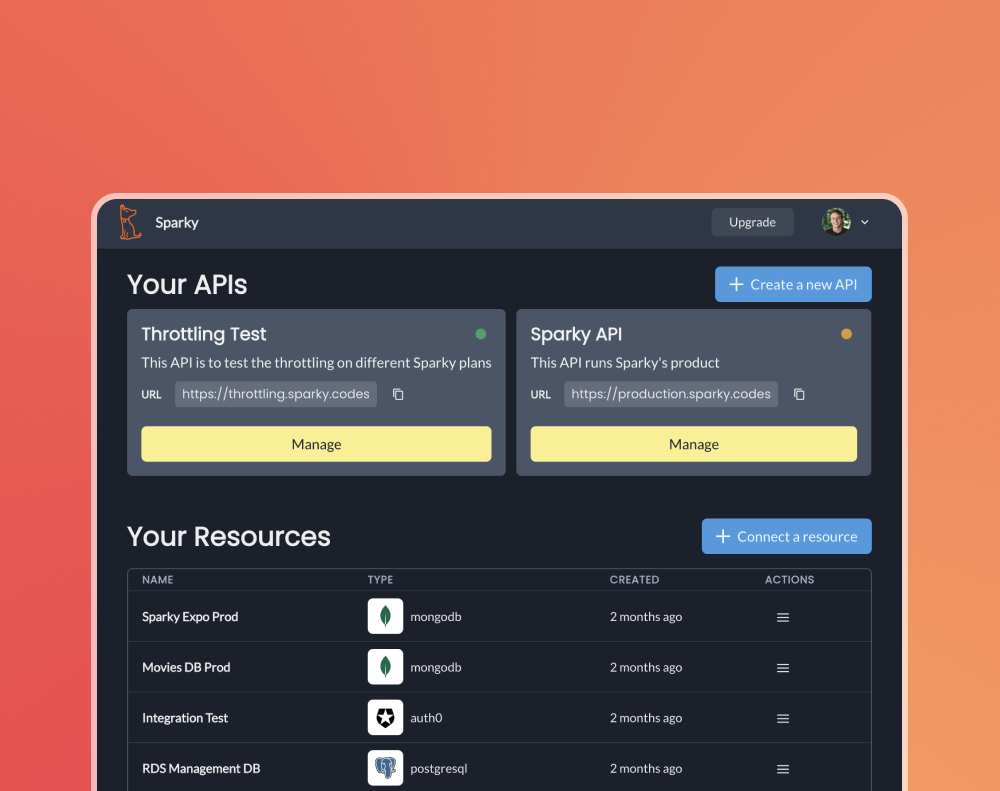
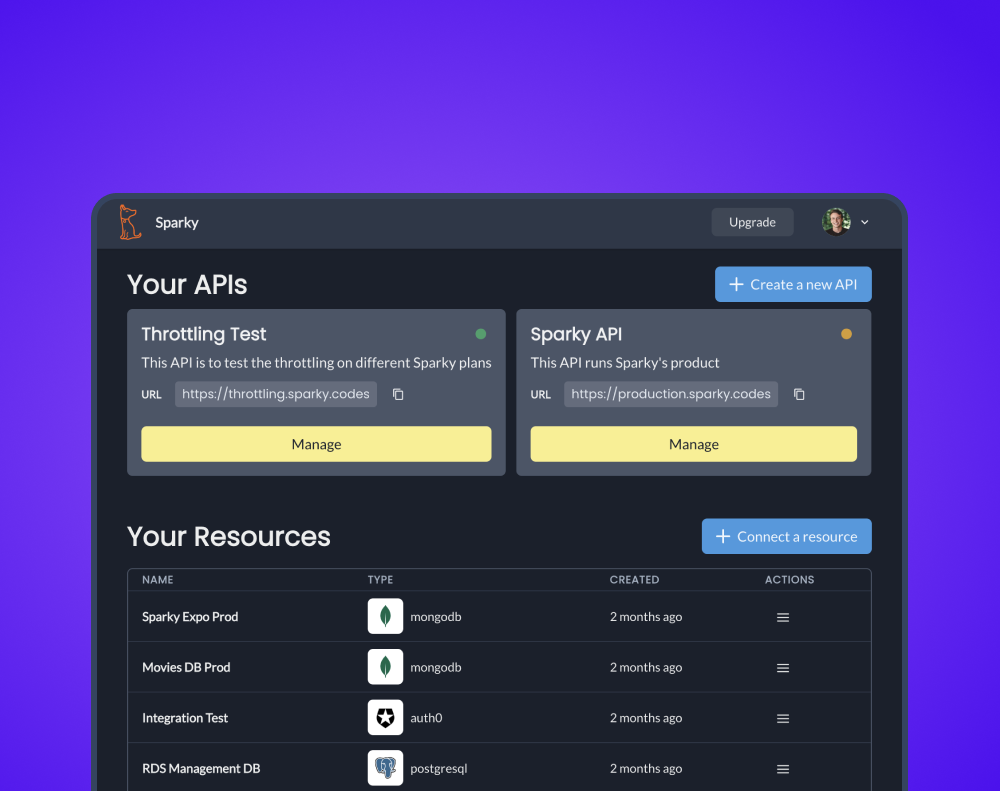
Finish up v1 project pages

diff --git a/src/pages/projects/[projectId].tsx b/src/pages/projects/[projectId].tsx
@@ -8,6 +8,8 @@ import {
   VStack,
   Image,
   Stack,
+  Wrap,
+  Tag,
 } from "@chakra-ui/react";
 import { useRouter } from "next/router";
 import { ProjectIds, projects } from "../../fixtures/projects";
@@ -42,7 +44,7 @@ export default function ProjectPage() {
 
   return (
     // Full page gradient background
-    <Box h="100vh" w="full" bgGradient={project.gradient}>
+    <Box minH="100vh" w="full" bgGradient={project.gradient}>
       <Container maxW="container.lg" h="full" py={20}>
         {/* Home button */}
         <Button
@@ -107,6 +109,46 @@ export default function ProjectPage() {
         >
           {project.description}
         </Text>
+
+        <Stack
+          mt={10}
+          direction={["column", "column", "row", "row"]}
+          spacing={4}
+          w="full"
+        >
+          <Box
+            w={["100%", "100%", "50%", "50%"]}
+            bg={"rgba(255, 255, 255, 0.1)"}
+            px={8}
+            py={6}
+            borderRadius={20}
+            hidden={!project.team}
+          >
+            <Heading color={project.textColor} size="md">
+              Team
+            </Heading>
+            <Text color={project.textColor} mt={2}>
+              {project.team}
+            </Text>
+          </Box>
+          <Box
+            w={["100%", "100%", "50%", "50%"]}
+            bg={"rgba(255, 255, 255, 0.1)"}
+            px={8}
+            py={6}
+            borderRadius={20}
+            hidden={!project.technologies || !project.technologies.length}
+          >
+            <Heading color={project.textColor} size="md">
+              Tech
+            </Heading>
+            <Wrap mt={2} spacing={2}>
+              {project?.technologies?.map((tech) => (
+                <Tag rounded={"full"}>{tech}</Tag>
+              ))}
+            </Wrap>
+          </Box>
+        </Stack>
       </Container>
     </Box>
   );

diff --git a/src/fixtures/projects.ts b/src/fixtures/projects.ts
@@ -19,6 +19,8 @@ export type Project = {
     title: string;
     url: string;
   }[]
+  technologies?: string[];
+  team?: string;
 };
 
 export enum ProjectIds {
@@ -45,7 +47,19 @@ export const projects = new Map<ProjectIds, Project>([
           title: "Website",
           url: "https://superfan.social",
         }
-      ]
+      ],
+      technologies: [
+        "TypeScript",
+        "React Native",
+        "Expo",
+        "Next.js",
+        "Chakra UI",
+        "Supabase",
+        "PostgreSQL",
+        "Spotify API",
+        "NodeJS"
+      ],
+      team: "I built this solo, but had design help from @kai_mckinney and product ideas from my wonderful friends.",
     },
   ],
   [
@@ -59,7 +73,7 @@ export const projects = new Map<ProjectIds, Project>([
       image: sparkyImage,
       icon: sparkyIcon,
       url: "https://sparky.codes",
-      gradient: "linear(to-b, #E45151 40%, #EF8C31)",
+      gradient: "linear(to-b, #9559F4 -30%, #4A12EC)",
       textColor: "#ffffff",
       links: [
         {
@@ -70,7 +84,29 @@ export const projects = new Map<ProjectIds, Project>([
           title: "Docs",
           url: "https://docs.sparky.codes",
         }
-      ]
+      ],
+      technologies: [
+        "AWS Lambda",
+        "AWS API Gateway",
+        "AWS EventBridge",
+        "AWS CloudFormation",
+        "AWS ECS",
+        "AWS ECR",
+        "AWS Route53",
+        "TypeScript",
+        "React",
+        "Next.js",
+        "Chakra UI",
+        "MongoDB",
+        "Docusaurus",
+        "Auth0",
+        "PostgreSQL",
+        "Serverless Framework",
+        "NodeJS",
+        "Docker",
+        "Pulumi",
+      ],
+      team: "I built Sparky solo over the course of a few months.",
     },
   ],
 ]);
